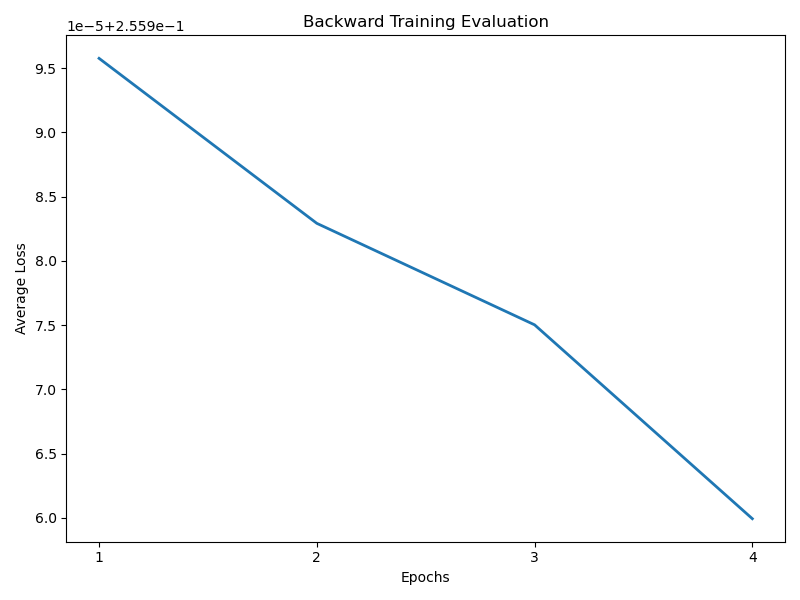
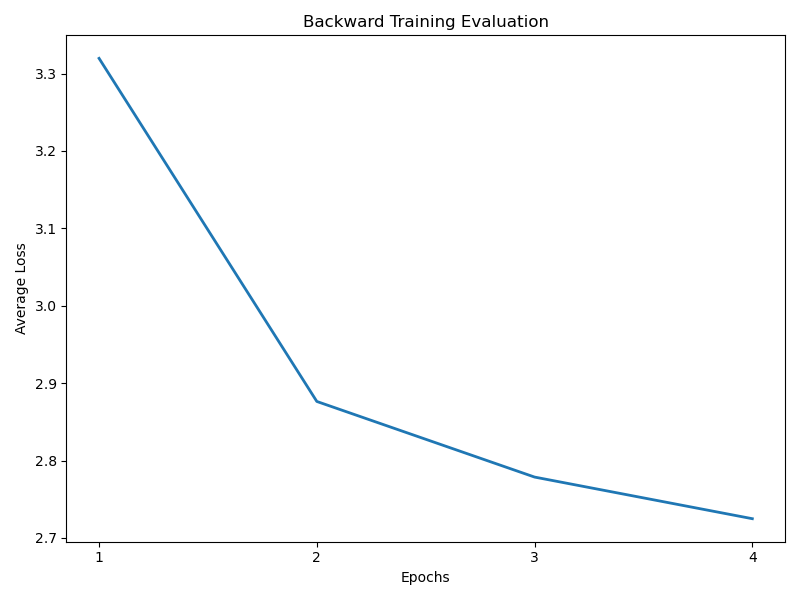
ff and fb modules added

diff --git a/week1/model_with_ff_fb_and_predictive_coding.py b/week1/model_with_ff_fb_and_predictive_coding.py
@@ -24,6 +24,8 @@ testloader=torch.utils.data.DataLoader(testset,batch_size=batch_size,shuffle=Fal
 
 classes= ('plane','car','bird','cat','deer','dog','frog','horse','ship','truck')
 
+epochs=10
+
 class Net(nn.Module):
     
     def __init__(self):
@@ -38,40 +40,40 @@ class Net(nn.Module):
         self.fc3_fb=nn.Linear(10,84)
         self.fc2_fb=nn.Linear(84,120)
         self.fc1_fb=nn.Linear(120,16*5*5)
-        self.deconv2_fb=nn.ConvTranspose2d(16, 6, 5,stride=2, padding=2, output_padding=1)
-        self.unpool1=nn.Upsample(scale_factor=2, mode='nearest')
+        self.deconv2_fb=nn.ConvTranspose2d(16, 6, 5,stride=1, padding=0)
+        self.unpool1=nn.Upsample(size=(14, 14), mode='bilinear', align_corners=False)
         self.deconv1_fb=nn.ConvTranspose2d(6, 3, 5,stride=2, padding=2, output_padding=1)
         self.final_upsample=nn.Upsample(size=(32, 32), mode='bilinear', align_corners=False)
 
 
     def forward(self,x,direction):
         if direction=="forward":
-            x=self.pool(F.relu(self.conv1(x)))
-            x=self.pool(F.relu(self.conv2(x)))
-            x=torch.flatten(x,1) #Flatten all dimensions except batch
-            x=F.relu(self.fc1(x))
-            x=F.relu(self.fc2(x))
-            x=self.fc3(x)
-            return x
+            ft_AB=self.pool(F.relu(self.conv1(x)))
+            ft_BC=self.pool(F.relu(self.conv2(ft_AB)))
+            ft_BC=torch.flatten(ft_BC,1) #Flatten all dimensions except batch
+            ft_CD=F.relu(self.fc1(ft_BC))
+            ft_DE=F.relu(self.fc2(ft_CD))
+            output=self.fc3(ft_DE)
+            return output
         if direction=="backward":
             #You get the features from the forward direction
-            x=self.pool(F.relu(self.conv1(x)))
-            x=self.pool(F.relu(self.conv2(x)))
-            x=torch.flatten(x,1) #Flatten all dimensions except batch
-            x=F.relu(self.fc1(x))
-            x=F.relu(self.fc2(x))
-            x=self.fc3(x)
+            ft_AB=self.pool(F.relu(self.conv1(x)))
+            ft_BC_will_flatten=self.pool(F.relu(self.conv2(ft_AB)))
+            ft_BC=torch.flatten(ft_BC_will_flatten,1) #Flatten all dimensions except batch
+            ft_CD=F.relu(self.fc1(ft_BC))
+            ft_DE=F.relu(self.fc2(ft_CD))
+            output=self.fc3(ft_DE)
             #Now once you have the features you just go back in the opposite direction and then reconstruct the input and adjust the weights based on the error 
-            x=F.relu(self.fc3_fb(x))
-            x=F.relu(self.fc2_fb(x))
-            x=F.relu(self.fc1_fb(x))
-            x = x.view(-1, 16, 5, 5)
-            x=F.relu(self.deconv2_fb(x))
-            x=self.unpool1(x)
-            x=F.relu(self.deconv1_fb(x))
+            ft_ED=F.relu(self.fc3_fb(output))
+            ft_DC=F.relu(self.fc2_fb(ft_ED))
+            ft_CB=F.relu(self.fc1_fb(ft_DC))
+            ft_CB = ft_CB.view(-1, 16, 5, 5)
+            ft_BA=F.relu(self.deconv2_fb(ft_CB))
+            ft_BA=self.unpool1(ft_BA)
+            x=F.relu(self.deconv1_fb(ft_BA))
             #This should be the input
             x=self.final_upsample(x) 
-            return x
+            return ft_AB,ft_BA,ft_BC_will_flatten,ft_CB,ft_CD,ft_DC,ft_DE,ft_ED,x
 
 def evaluation_metric(net,direction):
     # Testing
@@ -94,14 +96,25 @@ def evaluation_metric(net,direction):
 
 #It's showing the error not the accuracy fix that
 
-def evaluation_reconstruction(net,criterion_recon):
+def evaluation_reconstruction(net,direction):
     net.eval()
-    total_loss = 0.0
+    total_pixels = 0
+    correct_pixels = 0
+    threshold=0.1
     with torch.no_grad():
-        for images, _ in testloader:
-            xpred = net(images, "backward")
-            total_loss += criterion_recon(xpred, images).item()
-    return total_loss / len(testloader)
+        for batch_idx, batch in enumerate(testloader):
+            images, labels = batch
+            _,_,_,_,_,_,_,_,xpred = net(images,direction)
+            diff=torch.abs(xpred-images)
+            correct=(diff<threshold).float().sum().item()
+            total=images.numel()
+            correct_pixels=+correct
+            total_pixels=+total
+
+    accuracy = 100 * (correct_pixels / total_pixels)
+
+    return accuracy
+
 
 
 def plot_metrics(x,y,direction):
@@ -129,7 +142,7 @@ def feedfwd_training(net):
     criterion = nn.CrossEntropyLoss()
     optimizer_fwd = optim.SGD(list(net.conv1.parameters())+list(net.conv2.parameters())+list(net.fc1.parameters())+list(net.fc2.parameters())+list(net.fc3.parameters()), lr=0.001, momentum=0.9)
     loss_arr = []
-    for epoch in range(4):
+    for epoch in range(epochs):
         running_loss = []
         for batch_idx, batch in enumerate(trainloader):
             images, labels = batch
@@ -145,7 +158,7 @@ def feedfwd_training(net):
         loss_arr.append(avg_loss)
 
     accuracy=evaluation_metric(net,"forward")
-    iters = range(1, 5)
+    iters = range(1, epochs+1)
     plot_bool=plot_metrics(iters,loss_arr,"forward")
     if plot_bool==True:
         print("Plots Successfully Stored")
@@ -159,27 +172,32 @@ def feedback_training(net):
     criterion_recon = nn.MSELoss()
     optimizer_bck = optim.SGD(list(net.deconv2_fb.parameters())+list(net.deconv1_fb.parameters())+list(net.fc1_fb.parameters())+list(net.fc2_fb.parameters())+list(net.fc3_fb.parameters()), lr=0.001, momentum=0.9)
     loss_arr = []
-    for epoch in range(4):
+    for epoch in range(epochs):
         running_loss = []
         for batch_idx, batch in enumerate(trainloader):
             images, labels = batch
             optimizer_bck.zero_grad()
-            xpred = net(images,"backward")
-            loss = criterion_recon(xpred, images)
-            loss.backward()
+            ft_AB,ft_BA,ft_BC,ft_CB,ft_CD,ft_DC,ft_DE,ft_ED,xpred = net(images,"backward")
+            lossAtoB = criterion_recon(ft_AB, ft_BA)
+            lossBtoC = criterion_recon(ft_BC, ft_CB)
+            lossCtoD = criterion_recon(ft_CD, ft_DC)
+            lossDtoE = criterion_recon(ft_DE, ft_ED)
+            loss_input_and_recon = criterion_recon(xpred, images)
+            final_loss=lossAtoB+lossBtoC+lossCtoD+lossDtoE+loss_input_and_recon
+            final_loss.backward(retain_graph=True)
             optimizer_bck.step()
-            running_loss.append(loss.item())
+            running_loss.append(final_loss.item())
 
         avg_loss = np.mean(running_loss)
         print(f"Epoch:{epoch} and AverageLoss:{avg_loss}")
         loss_arr.append(avg_loss)
 
-    accuracy=evaluation_reconstruction(net,criterion_recon)
-    iters = range(1, 5)
+    #accuracy=evaluation_reconstruction(net,criterion_recon)
+    iters = range(1, epochs+1)
     plot_bool=plot_metrics(iters,loss_arr,"backward")
     if plot_bool==True:
         print("Plots Successfully Stored")
-    print(f'Backward Connections Accuracy = {accuracy:.2f}%')
+    #print(f'Backward Connections Accuracy = {accuracy:.2f}%')
 
     print("Backward Training Succesful")
 
